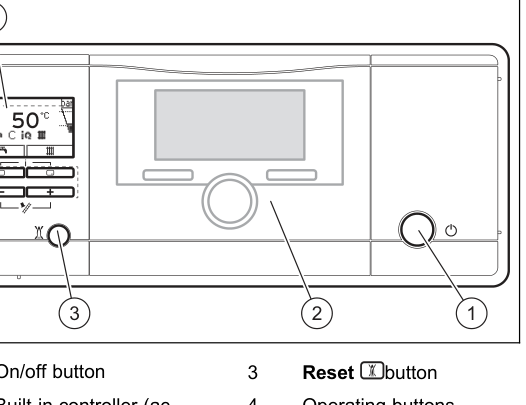
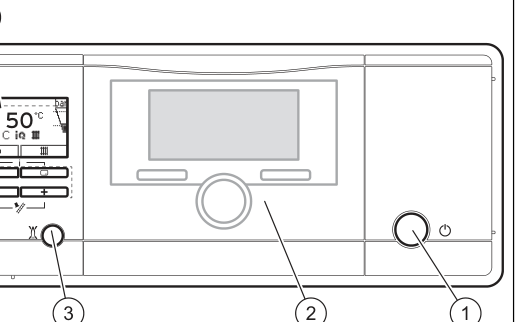
Add Vaillant ecoMAX and Exclusive flow-temperature how-tos.

Changed region(s): [[0.0, 0.0932, 1.0, 1.0], [0.0, 0.0, 0.0308, 0.0621], [0.4615, 0.9938, 0.4923, 1.0]]

diff --git a/vaillant/how-to-adjust-the-flow-temperature-on-vaillant-ecotec-exclusive/index.html b/vaillant/how-to-adjust-the-flow-temperature-on-vaillant-ecotec-exclusive/index.html
@@ -1,0 +1,164 @@
+<!DOCTYPE html>
+<html lang="en">
+<head>
+    <meta charset="UTF-8">
+    <meta name="viewport" content="width=device-width, initial-scale=1.0">
+    <title>How to adjust the flow temperature on a Vaillant ecoTEC Exclusive - MyBoiler</title>
+    <meta name="description" content="Set the heating flow temperature on a Vaillant ecoTEC Exclusive. Press the heating button on the display, set the temperature with + and −, then confirm.">
+    <link rel="canonical" href="https://myboiler.com/vaillant/how-to-adjust-the-flow-temperature-on-vaillant-ecotec-exclusive/">
+    <link rel="stylesheet" type="text/css" href="/css/styles.css?v=1024-cap">
+    <style>
+        .article-page {
+            min-height: 100vh;
+            display: flex;
+            flex-direction: column;
+            background: var(--bg);
+        }
+        .article-container {
+            flex: 1;
+            padding: clamp(2rem, 5vw, 4rem) clamp(20px, 5vw, 40px);
+            margin: 0 auto;
+            width: 100%;
+            max-width: var(--max-width, 1024px);
+            box-sizing: border-box;
+        }
+        .article-header { margin-bottom: 2.5rem; }
+        .article-title {
+            font-size: clamp(2rem, 5vw, 3rem);
+            font-weight: 700;
+            line-height: 1.1;
+            color: var(--text);
+            margin: 0 0 1rem;
+            letter-spacing: -0.02em;
+        }
+        .article-intro {
+            font-size: 1.125rem;
+            line-height: 1.6;
+            color: var(--text-muted);
+            margin: 0 0 2rem;
+        }
+        .article-content {
+            background: var(--surface);
+            border-radius: var(--radius-lg);
+            box-shadow: var(--shadow-sm);
+            padding: clamp(1.5rem, 4vw, 3rem);
+            margin-bottom: 2rem;
+        }
+        .article-content p,
+        .article-content li {
+            font-size: 1rem;
+            line-height: 1.7;
+            color: var(--text);
+        }
+        .article-content p { margin: 0 0 1.25rem; }
+        .article-content h2 {
+            font-size: 1.5rem;
+            font-weight: 700;
+            color: var(--text);
+            margin: 2rem 0 1rem;
+        }
+        .article-content h2:first-child { margin-top: 0; }
+        .article-content ol { margin: 1rem 0 1.25rem; padding-left: 1.5rem; }
+        .article-content li { margin-bottom: 0.5rem; }
+        .article-content a { color: var(--accent); }
+        .article-content figure { margin: 0 0 1.5rem; }
+        .article-content figure img {
+            display: block;
+            width: auto;
+            max-width: min(100%, 800px);
+            max-height: 600px;
+            object-fit: contain;
+            height: auto;
+            margin: 0 auto;
+            border-radius: var(--radius);
+            background: #fff;
+        }
+        .article-content figcaption {
+            margin-top: 0.75rem;
+            font-size: 0.875rem;
+            line-height: 1.5;
+            color: var(--text-muted);
+            text-align: center;
+        }
+
+        .page-back {
+            display: inline-flex;
+            align-items: center;
+            gap: 0.5rem;
+            margin: 0 0 1.25rem;
+            padding: 0.55rem 1rem;
+            background: var(--surface);
+            border: 1px solid var(--border);
+            border-radius: var(--radius);
+            color: var(--text);
+            text-decoration: none;
+            font-weight: 600;
+        }
+        .page-back:hover { border-color: var(--accent); }
+    </style>
+    <script type="text/javascript" src="/js/site-nav.js" data-cfasync="false"></script>
+    <script type="application/ld+json">
+{
+  "@context": "https://schema.org",
+  "@type": "WebPage",
+  "name": "How to adjust the flow temperature on a Vaillant ecoTEC Exclusive",
+  "url": "https://myboiler.com/vaillant/how-to-adjust-the-flow-temperature-on-vaillant-ecotec-exclusive/",
+  "isPartOf": {
+    "@type": "WebSite",
+    "name": "MyBoiler.com",
+    "url": "https://myboiler.com/"
+  },
+  "description": "Set the heating flow temperature on a Vaillant ecoTEC Exclusive. Press the heating button on the display, set the temperature with + and \u2212, then confirm."
+}
+    </script>
+</head>
+<body class="article-page">
+    <div class="menu-overlay"></div>
+    <div class="nav-mega-backdrop" aria-hidden="true"></div>
+    <header class="header">
+        <a href="/" class="logo">
+            <img src="/img/myboiler-logo-light.svg" alt="MyBoiler Logo" width="200" height="44" class="light-mode-logo js-theme-logo">
+            <img src="/img/myboiler-logo-dark.svg" alt="MyBoiler Logo" width="200" height="44" class="dark-mode-logo js-theme-logo">
+        </a>
+        <div class="tagline">Smarter Heating & Hot Water</div>
+        <div class="right-header-items">
+            <button class="hamburger-menu" onclick="toggleMenu()" aria-label="Toggle Menu">
+                <span class="hamburger-line"></span>
+                <span class="hamburger-line"></span>
+                <span class="hamburger-line"></span>
+            </button>
+            <nav id="nav-menu" class="nav-menu"><ul class="nav-list"><li class="nav-item"><a href="/advice/">Advice</a></li><li class="nav-item"><a href="/toolbox/">Toolbox</a></li><li class="nav-item nav-item-cta"><a href="/chat/">Ask AI</a></li></ul></nav>
+        </div>
+    </header>
+
+    <div class="article-container">
+        <a class="page-back" href="/vaillant/how-to-adjust-the-flow-temperature/">← Back</a>
+        <header class="article-header">
+            <h1 class="article-title">How to adjust the flow temperature on a Vaillant ecoTEC Exclusive</h1>
+            <p class="article-intro">Display on the left, round controller in the middle, on/off on the right. The round knob is the built-in controller, not the flow dial.</p>
+        </header>
+
+        <article class="article-content">
+            <figure>
+                <img src="/boiler-optimiser/images/displays/vaillant-exclusive-panel.png" width="520" height="322" alt="Vaillant ecoTEC Exclusive control panel with the display on the left, a round controller in the middle, and on/off on the right.">
+                <figcaption>1 on/off. 2 built-in controller. 3 reset. Heating flow is set on the display buttons, not on the round knob.</figcaption>
+            </figure>
+
+            <h2>Set the heating flow</h2>
+            <p>Adjustable values flash on the display. A change is saved only after you confirm it. Typical target is about 55°C if the house still warms. An installer may already have limited the maximum.</p>
+            <ol>
+                <li>Press the heating button on the display (the right-hand selection button, radiator symbol). The target heating flow temperature appears.</li>
+                <li>Press + or − until the display shows the flow you want.</li>
+                <li>Press the heating button again to confirm. Wait until the value stops flashing.</li>
+            </ol>
+            <p>If the round controller in the middle is running the heating, that figure is the highest flow the boiler will allow. Set about 55°C here, then set the room temperature on the controller.</p>
+            <p>If your Exclusive has two temperature dials instead of this fascia, use the <a href="/vaillant/how-to-adjust-the-flow-temperature-on-vaillant-ecotec-pre-2012-models/">ecoTEC before 2012</a> steps.</p>
+            <p>Look up your exact model on <a href="https://boilermanuals.com/brands/vaillant.html">Boiler Manuals</a> if the fascia does not match. Then return to the <a href="/vaillant/how-to-adjust-the-flow-temperature/">Vaillant flow-temperature page</a> or the <a href="/boiler-optimiser/">Boiler Optimiser</a>.</p>
+        </article>
+    </div>
+
+    <div id="site-footer"></div>
+    <script type="text/javascript" src="/js/site-nav.js" data-cfasync="false"></script>
+    <script type="text/javascript" src="/js/menu.js" data-cfasync="false"></script>
+</body>
+</html>

diff --git a/vaillant/how-to-adjust-the-flow-temperature-on-vaillant-ecomax/index.html b/vaillant/how-to-adjust-the-flow-temperature-on-vaillant-ecomax/index.html
@@ -1,0 +1,163 @@
+<!DOCTYPE html>
+<html lang="en">
+<head>
+    <meta charset="UTF-8">
+    <meta name="viewport" content="width=device-width, initial-scale=1.0">
+    <title>How to adjust the flow temperature on a Vaillant ecoMAX - MyBoiler</title>
+    <meta name="description" content="Set the heating flow temperature on a Vaillant ecoMAX combi or system boiler. Turn the top radiator knob. The display shows the flow for about five seconds.">
+    <link rel="canonical" href="https://myboiler.com/vaillant/how-to-adjust-the-flow-temperature-on-vaillant-ecomax/">
+    <link rel="stylesheet" type="text/css" href="/css/styles.css?v=1024-cap">
+    <style>
+        .article-page {
+            min-height: 100vh;
+            display: flex;
+            flex-direction: column;
+            background: var(--bg);
+        }
+        .article-container {
+            flex: 1;
+            padding: clamp(2rem, 5vw, 4rem) clamp(20px, 5vw, 40px);
+            margin: 0 auto;
+            width: 100%;
+            max-width: var(--max-width, 1024px);
+            box-sizing: border-box;
+        }
+        .article-header { margin-bottom: 2.5rem; }
+        .article-title {
+            font-size: clamp(2rem, 5vw, 3rem);
+            font-weight: 700;
+            line-height: 1.1;
+            color: var(--text);
+            margin: 0 0 1rem;
+            letter-spacing: -0.02em;
+        }
+        .article-intro {
+            font-size: 1.125rem;
+            line-height: 1.6;
+            color: var(--text-muted);
+            margin: 0 0 2rem;
+        }
+        .article-content {
+            background: var(--surface);
+            border-radius: var(--radius-lg);
+            box-shadow: var(--shadow-sm);
+            padding: clamp(1.5rem, 4vw, 3rem);
+            margin-bottom: 2rem;
+        }
+        .article-content p,
+        .article-content li {
+            font-size: 1rem;
+            line-height: 1.7;
+            color: var(--text);
+        }
+        .article-content p { margin: 0 0 1.25rem; }
+        .article-content h2 {
+            font-size: 1.5rem;
+            font-weight: 700;
+            color: var(--text);
+            margin: 2rem 0 1rem;
+        }
+        .article-content h2:first-child { margin-top: 0; }
+        .article-content ol { margin: 1rem 0 1.25rem; padding-left: 1.5rem; }
+        .article-content li { margin-bottom: 0.5rem; }
+        .article-content a { color: var(--accent); }
+        .article-content figure { margin: 0 0 1.5rem; }
+        .article-content figure img {
+            display: block;
+            width: auto;
+            max-width: min(100%, 800px);
+            max-height: 600px;
+            object-fit: contain;
+            height: auto;
+            margin: 0 auto;
+            border-radius: var(--radius);
+            background: #fff;
+        }
+        .article-content figcaption {
+            margin-top: 0.75rem;
+            font-size: 0.875rem;
+            line-height: 1.5;
+            color: var(--text-muted);
+            text-align: center;
+        }
+
+        .page-back {
+            display: inline-flex;
+            align-items: center;
+            gap: 0.5rem;
+            margin: 0 0 1.25rem;
+            padding: 0.55rem 1rem;
+            background: var(--surface);
+            border: 1px solid var(--border);
+            border-radius: var(--radius);
+            color: var(--text);
+            text-decoration: none;
+            font-weight: 600;
+        }
+        .page-back:hover { border-color: var(--accent); }
+    </style>
+    <script type="text/javascript" src="/js/site-nav.js" data-cfasync="false"></script>
+    <script type="application/ld+json">
+{
+  "@context": "https://schema.org",
+  "@type": "WebPage",
+  "name": "How to adjust the flow temperature on a Vaillant ecoMAX",
+  "url": "https://myboiler.com/vaillant/how-to-adjust-the-flow-temperature-on-vaillant-ecomax/",
+  "isPartOf": {
+    "@type": "WebSite",
+    "name": "MyBoiler.com",
+    "url": "https://myboiler.com/"
+  },
+  "description": "Set the heating flow temperature on a Vaillant ecoMAX combi or system boiler. Turn the top radiator knob. The display shows the flow for about five seconds."
+}
+    </script>
+</head>
+<body class="article-page">
+    <div class="menu-overlay"></div>
+    <div class="nav-mega-backdrop" aria-hidden="true"></div>
+    <header class="header">
+        <a href="/" class="logo">
+            <img src="/img/myboiler-logo-light.svg" alt="MyBoiler Logo" width="200" height="44" class="light-mode-logo js-theme-logo">
+            <img src="/img/myboiler-logo-dark.svg" alt="MyBoiler Logo" width="200" height="44" class="dark-mode-logo js-theme-logo">
+        </a>
+        <div class="tagline">Smarter Heating & Hot Water</div>
+        <div class="right-header-items">
+            <button class="hamburger-menu" onclick="toggleMenu()" aria-label="Toggle Menu">
+                <span class="hamburger-line"></span>
+                <span class="hamburger-line"></span>
+                <span class="hamburger-line"></span>
+            </button>
+            <nav id="nav-menu" class="nav-menu"><ul class="nav-list"><li class="nav-item"><a href="/advice/">Advice</a></li><li class="nav-item"><a href="/toolbox/">Toolbox</a></li><li class="nav-item nav-item-cta"><a href="/chat/">Ask AI</a></li></ul></nav>
+        </div>
+    </header>
+
+    <div class="article-container">
+        <a class="page-back" href="/vaillant/how-to-adjust-the-flow-temperature/">← Back</a>
+        <header class="article-header">
+            <h1 class="article-title">How to adjust the flow temperature on a Vaillant ecoMAX</h1>
+            <p class="article-intro">Two round knobs on the left, a small display, and an I/O switch. The top knob with the radiator symbol is heating flow.</p>
+        </header>
+
+        <article class="article-content">
+            <figure>
+                <img src="/boiler-optimiser/images/displays/vaillant-ecomax-panel.png" width="477" height="400" alt="Vaillant ecoMAX control panel with two stacked round knobs on the left, a small display, an I/O switch and a pressure gauge.">
+                <figcaption>1 heating flow (top knob, radiator symbol). 8 hot water on a combi (knob underneath). 3 I/O switch. Turn the top knob, not the hot-water knob.</figcaption>
+            </figure>
+
+            <h2>Set the heating flow</h2>
+            <p>Typical target is about 55°C if the house still warms. The display shows the flow you have chosen for about five seconds, then goes back to the current flow.</p>
+            <ol>
+                <li>Open the front flap. Turn the I/O switch to I.</li>
+                <li>Turn the top radiator knob. Clockwise raises the flow. Anticlockwise lowers it.</li>
+                <li>Watch the display and stop around 55°C.</li>
+            </ol>
+            <p>Fully left on that knob is heating off (summer mode). A combi also has a hot-water knob underneath the heating knob — leave that one. Heat-only and system ecoMAX boilers only have the heating knob.</p>
+            <p>Look up your exact model on <a href="https://boilermanuals.com/brands/vaillant.html">Boiler Manuals</a> if the fascia does not match. Then return to the <a href="/vaillant/how-to-adjust-the-flow-temperature/">Vaillant flow-temperature page</a> or the <a href="/boiler-optimiser/">Boiler Optimiser</a>.</p>
+        </article>
+    </div>
+
+    <div id="site-footer"></div>
+    <script type="text/javascript" src="/js/site-nav.js" data-cfasync="false"></script>
+    <script type="text/javascript" src="/js/menu.js" data-cfasync="false"></script>
+</body>
+</html>

diff --git a/vaillant/how-to-adjust-the-flow-temperature/index.html b/vaillant/how-to-adjust-the-flow-temperature/index.html
@@ -4,7 +4,7 @@
     <meta charset="UTF-8">
     <meta name="viewport" content="width=device-width, initial-scale=1.0">
     <title>How to Adjust the Flow Temperature on a Vaillant Boiler - MyBoiler</title>
-    <meta name="description" content="Pick your Vaillant ecoTEC fascia — before 2012, from 2012, or the current Plus — then follow the matching flow-temperature steps.">
+    <meta name="description" content="Pick your Vaillant fascia — ecoMAX, ecoTEC, ecoFIT or Exclusive — then follow the matching flow-temperature steps.">
     <link rel="canonical" href="https://myboiler.com/vaillant/how-to-adjust-the-flow-temperature/">
     <link rel="stylesheet" type="text/css" href="/css/styles.css?v=1024-cap">
     <style>
@@ -179,7 +179,7 @@
     "name": "MyBoiler.com",
     "url": "https://myboiler.com/"
   },
-  "description": "Pick your Vaillant ecoTEC fascia \u2014 before 2012, from 2012, or the current Plus \u2014 then follow the matching flow-temperature steps."
+  "description": "Pick your Vaillant fascia \u2014 ecoMAX, ecoTEC, ecoFIT or Exclusive \u2014 then follow the matching flow-temperature steps."
 }
     </script>
 </head>
@@ -205,10 +205,15 @@
         <a class="page-back" href="/boiler-optimiser/">← Back</a>
         <header class="article-header">
             <h1 class="article-title">How to Adjust the Flow Temperature on a Vaillant Boiler</h1>
-            <p class="article-intro">Vaillant ecoTEC panels have changed a few times, and ecoFIT is a different cupboard-fit family. Pick the picture or description that matches yours. Typical target is about 55°C if the house still warms.</p>
+            <p class="article-intro">Vaillant panels have changed a few times. ecoMAX is the older two-knob range. ecoFIT is a cupboard-fit family. Exclusive has a round controller in the middle. Pick the picture that matches yours. Typical target is about 55°C if the house still warms.</p>
         </header>
         <article class="article-content">
                         <div class="fascia-grid">
+                <a class="fascia-card" href="/vaillant/how-to-adjust-the-flow-temperature-on-vaillant-ecomax/">
+                    <img src="/boiler-optimiser/images/displays/vaillant-ecomax-panel.png" alt="Vaillant ecoMAX control panel">
+                    <h2>ecoMAX</h2>
+                    <p>Two round knobs on the left, a small display, and an I/O switch.</p>
+                </a>
                 <a class="fascia-card" href="/vaillant/how-to-adjust-the-flow-temperature-on-vaillant-ecotec-pre-2012-models/">
                     <img src="/boiler-optimiser/images/ecotec-old-type.png" alt="Vaillant ecoTEC before 2012 control panel">
                     <h2>ecoTEC Pro, Plus before 2012</h2>
@@ -229,11 +234,11 @@
                     <h2>ecoFIT Pure / Sustain</h2>
                     <p>Small screen with +/− buttons and a round reset. No big dials.</p>
                 </a>
-                <div class="fascia-card">
+                <a class="fascia-card" href="/vaillant/how-to-adjust-the-flow-temperature-on-vaillant-ecotec-exclusive/">
                     <img src="/boiler-optimiser/images/displays/vaillant-exclusive-panel.png" alt="Vaillant ecoTEC Exclusive display">
                     <h2>ecoTEC Exclusive</h2>
                     <p>Display on the left, round controller in the middle, on/off on the right.</p>
-                </div>
+                </a>
             </div>
             <p>Match the picture to the boiler in front of you. Combi, system and regular versions of the same fascia usually share the same buttons. kW size does not change how you set the flow.</p>
             <p>When the flow is set, go back to the <a href="/boiler-optimiser/">Boiler Optimiser</a> to log what it was and what you set.</p>
